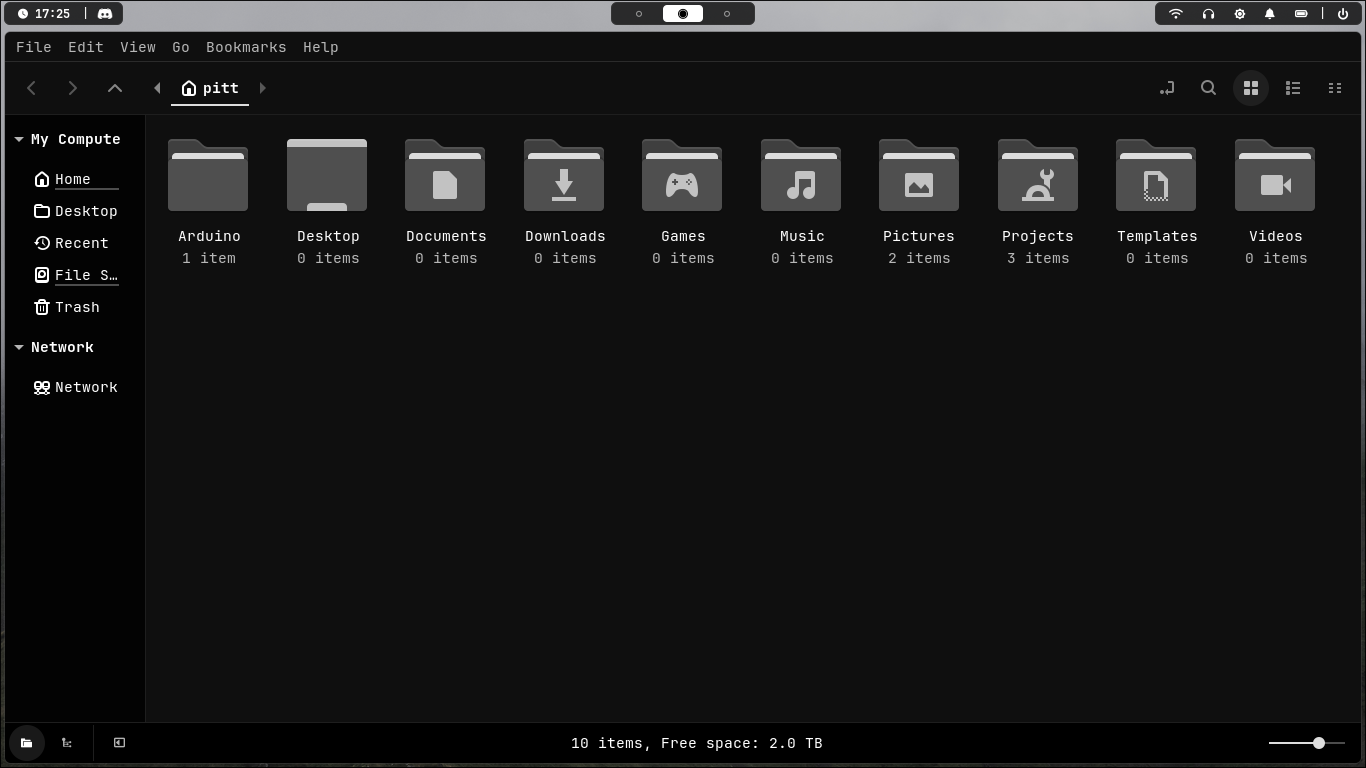
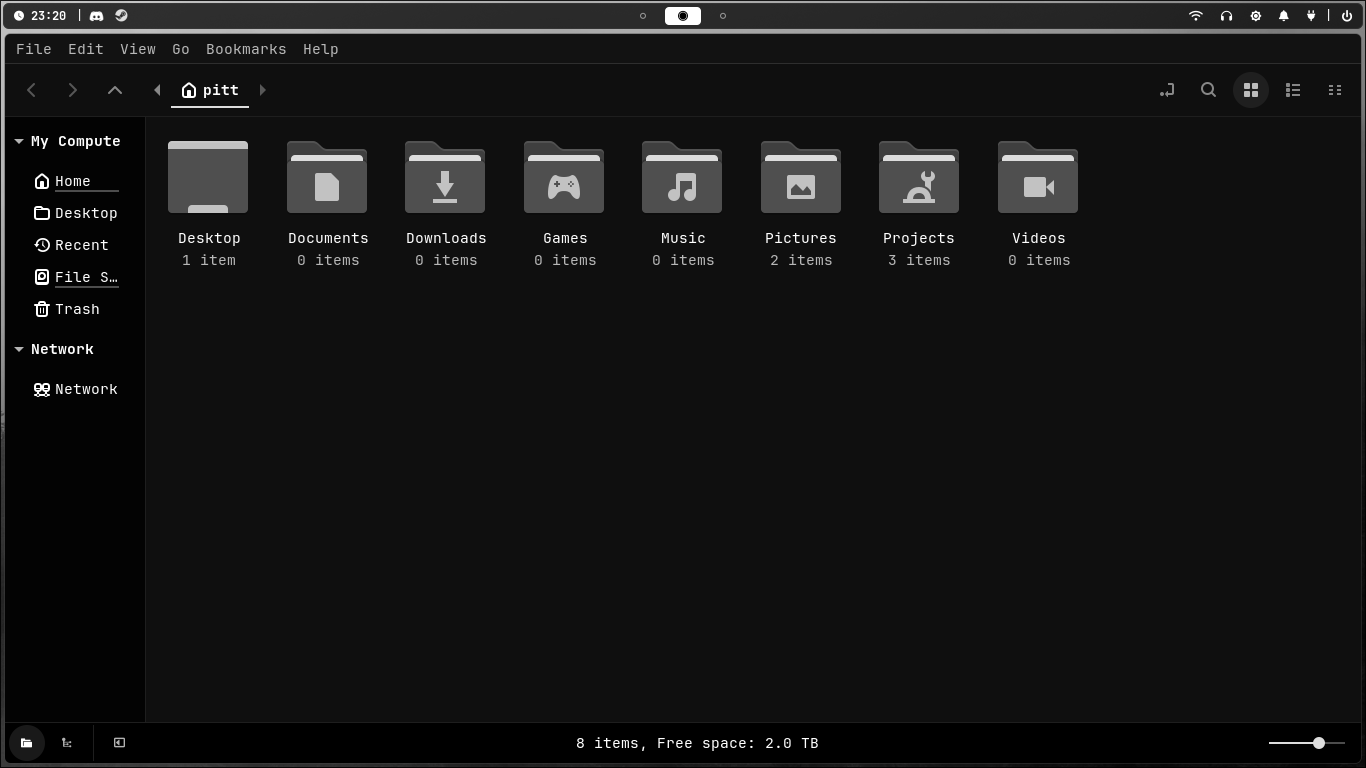
waybar and previews update

diff --git a/config/waybar/style.css b/config/waybar/style.css
@@ -6,25 +6,27 @@
 }
 
 window#waybar {
-    background: transparent;
+    background: rgba(0, 0, 0, 0.75);
+    border: 1px solid rgba(68, 68, 68, 0.4);
+    border-radius: 6px;
+    margin: 2px 4px;
     color: #ffffff;
 }
 
 .modules-left,
 .modules-center,
 .modules-right {
-    background: rgba(0, 0, 0, 0.75);
-    border: 1px solid rgba(68, 68, 68, 0.4);
+    background: transparent;
     border-radius: 6px;
-    margin: 2px 4px;
-    padding: 2px 5px;
+    margin: 2px 0px;
+    padding: 2px 3px;
 }
 
 #workspaces button {
     background: transparent;
     color: rgba(255, 255, 255, 0.5);
     border-radius: 4px;
-    padding: 0 10px;
+    padding: 0 8px;
     margin: 0 2px;
     transition: all 0.3s cubic-bezier(0.25, 0.8, 0.25, 1);
 }
@@ -61,7 +63,7 @@ window#waybar {
 
 #tray {
     background: transparent;
-    padding: 0 4px;
+    padding: 0px 4px;
 }
 
 button:hover,
